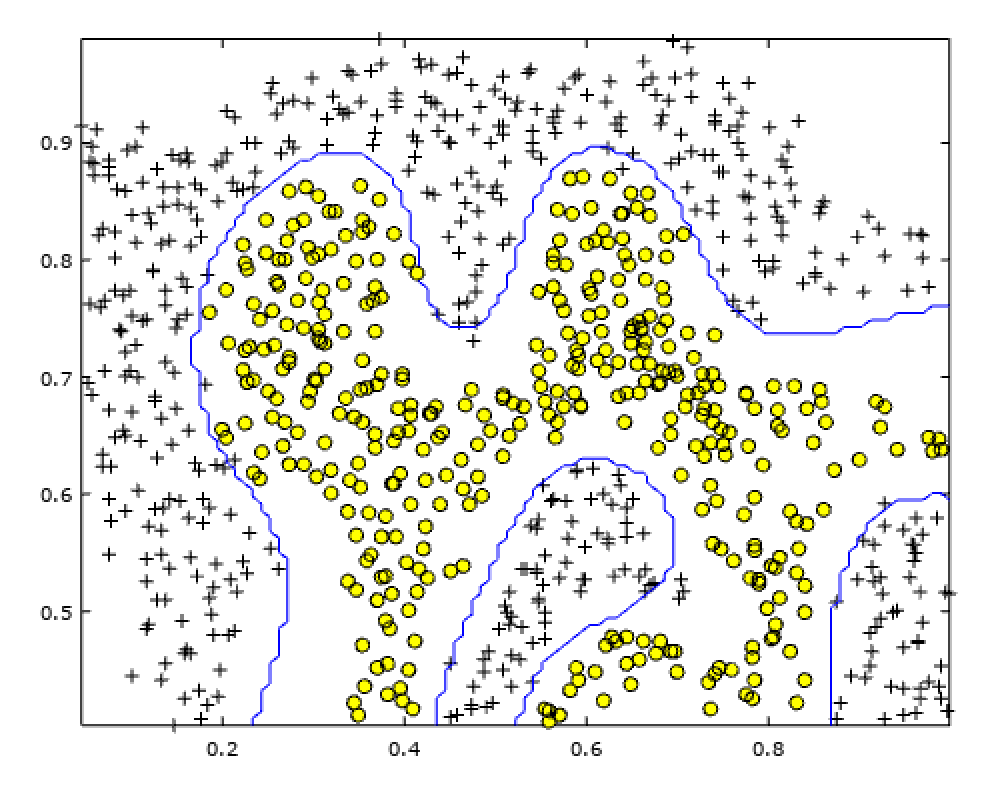
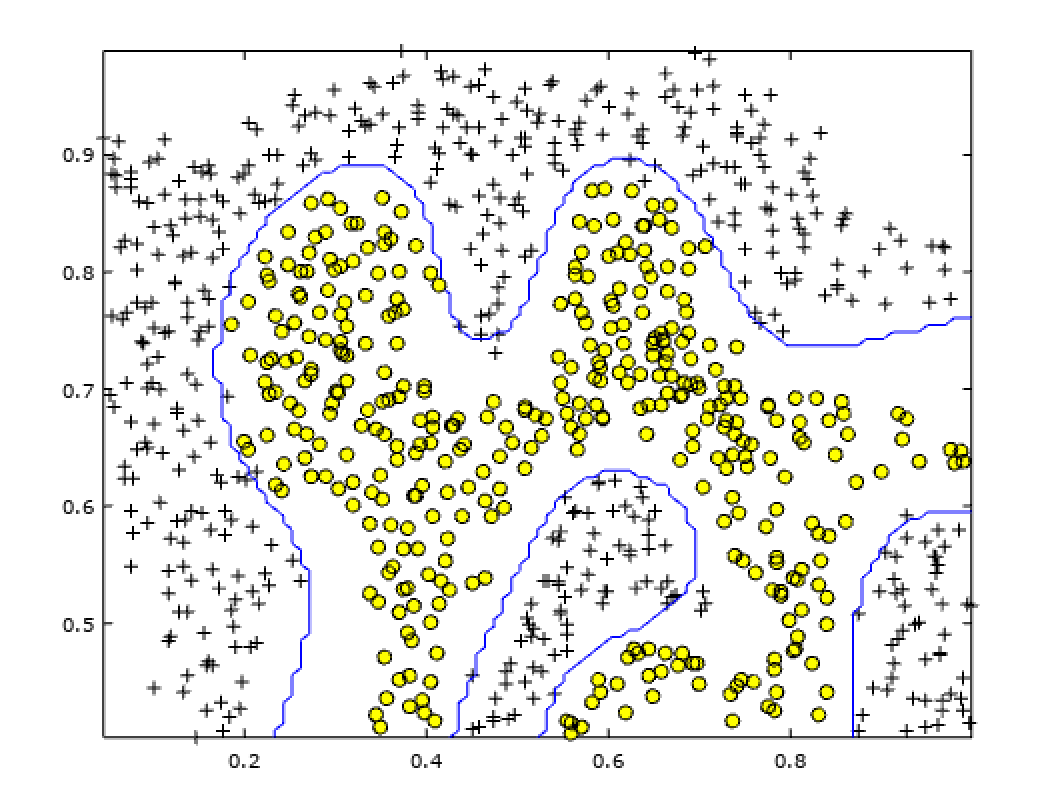
plots

Changed region(s): [[0.0308, 0.0305, 0.9553, 0.9771]]

diff --git a/Logistic Regression/ex2_reg.m b/Logistic Regression/ex2_reg.m
@@ -107,7 +107,7 @@ pause;
 initial_theta = zeros(size(X, 2), 1);
 
 % Set regularization parameter lambda to 1 (you should vary this)
-lambda = 100;
+lambda = 1;
 
 % Set Options
 options = optimset('GradObj', 'on', 'MaxIter', 400);
